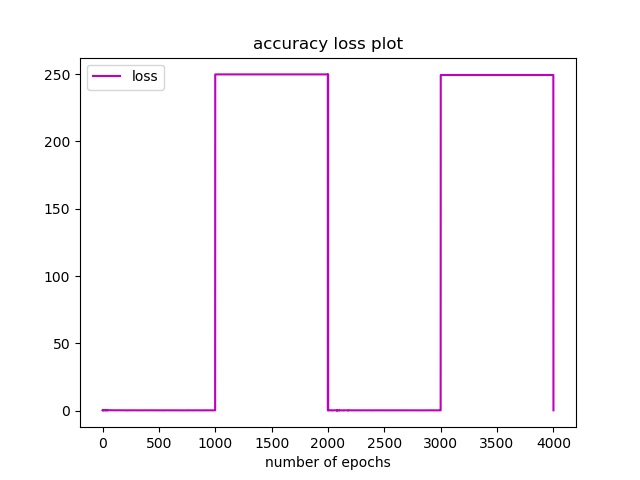
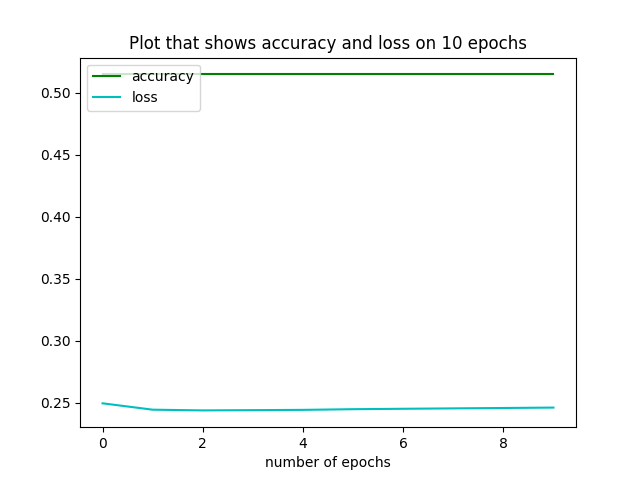
cleaned and tested for add to report

diff --git a/rocket_deepl/sequential.py b/rocket_deepl/sequential.py
@@ -35,7 +35,6 @@ class Sequential(Module):
         #added loss at last layer
         self.modules.append(loss_layer)
 
-
         self.plot_loss = []
         self.plot_accuracy = []
 
@@ -62,10 +61,9 @@ class Sequential(Module):
         Apply forward pass on all layers (excluded loss layer)
         Input:
             input: value
-            target: value (0 or 1) the size is 2xbatch_size
+            target: value (0 or 1) the size is 2 x batch_size
         """
-
-        #batch_size x 2 
+        # batch_size x 2
         self.predicted  = torch.empty(target.size(1))
 
         for i in range(input.size(0)) :
@@ -75,10 +73,10 @@ class Sequential(Module):
 
             x = inp.view(-1,1)
 
-            #dont take the last layer since it behaves differently
+            # do not take the last layer since it behaves differently
             for l in range(len(self.modules)-1) :
                 x = self.modules[l].forward(x)
-        
+
             self.predicted[i] = torch.argmax(x)
             self.loss += self.modules[-1].forward(x,targ)
 
@@ -91,7 +89,7 @@ class Sequential(Module):
         """
         gradientwrtoutput = []
 
-        #reverse for backward propogation
+        # reverse for backward propogation
         self.modules.reverse()
 
         for layer in self.modules:
@@ -99,7 +97,7 @@ class Sequential(Module):
 
         self.loss = 0
 
-        #reset the loss
+        # reset the loss
         self.modules.reverse()
 
 
@@ -115,21 +113,19 @@ class Sequential(Module):
 
 
     def plot_accuracy_loss(self):
-        #TODO: implement
-
-
-
-        plt.plot(self.plot_accuracy, '-m',label="accuracy")
+        """
+        Function to plot the accuracy and loss.
+        """
+        plt.plot(self.plot_accuracy, '-g',label="accuracy")
         plt.plot(self.plot_loss, '-c',label="loss")
 
         plt.xlabel("number of epochs")
-        plt.legend(loc= 'upper left')
-        plt.title("accuracy loss plot")
+        plt.legend(loc ='upper left')
+        plt.title("Plot that shows accuracy and loss on {} epochs".format(len(self.plot_loss)))
 
-        #plt.savefig("accuracy_loss.png")
-
+        # save the file
+        plt.savefig("accuracy_loss.png")
         plt.show()
-        
 
 
     def save_model(self, name):
@@ -155,8 +151,10 @@ class Sequential(Module):
         for l in self.modules:
             if(type(l) is Linear):
                 l.zero_grad()
-    
+
 
     def get_predicted(self):
-
+        """
+        Get the predicted
+        """
         return self.predicted

diff --git a/rocket_deepl/utils.py b/rocket_deepl/utils.py
@@ -15,7 +15,7 @@ def compute_nb_errors(model, data_input, data_target, mini_batch_size):
     nb_data_errors = 0
 
     for b in range(0, data_input.size(0), mini_batch_size):
-        
+
         #retrieve input and target in batches
         input = data_input.narrow(0, b, mini_batch_size)
         target = data_target.narrow(0, b, mini_batch_size)
@@ -35,11 +35,10 @@ def compute_nb_errors(model, data_input, data_target, mini_batch_size):
 
         #count the number of values that are different than zero
         #that would represent the number of missprediction
-
         diff = len(diff[diff!=0])
 
         nb_data_errors+= diff
-        
+
     return nb_data_errors
 
 def train_model(model, train_input, train_target, epochs=25, mini_batch_size = 1):
@@ -51,9 +50,6 @@ def train_model(model, train_input, train_target, epochs=25, mini_batch_size = 1
         epochs: #iterations
         mini_batch_size: size of batch
     """
-
-
-
     for e in range(0, epochs):
 
         model.zero_grad()
@@ -69,7 +65,7 @@ def train_model(model, train_input, train_target, epochs=25, mini_batch_size = 1
             model.step()
 
         accuracy = (1 - (compute_nb_errors(model, train_input, train_target, mini_batch_size))/train_input.size(0))
-       
+
         model.plot_accuracy.append(accuracy)
         model.plot_loss.append(loss)
 

diff --git a/test.py b/test.py
@@ -9,29 +9,37 @@ from rocket_deepl.sequential import *
 from rocket_deepl.utils import *
 
 
-train_input, train_target = torch.load('train'), torch.load('target')
+# Decomment to load the dataset
+# train_input, train_target = torch.load('train'), torch.load('target')
+train_input, train_target = generator(1000)
+
+# Generate the dataset with one-hot encoding
 test_input, test_target = generator(1000)
 
+# Model with 2 input units, 2 output units and 3 hidden layers
 model = Sequential([
 Linear(2, 25), ReLU(),
-Linear(25,25), tanH(), 
-Linear(25,25), ReLU(), 
+Linear(25,25), ReLU(),
 Linear(25,25), ReLU(),
 Linear(25, 2), tanH()
 ])
 
-epochs = 200
+epochs = 50
 mini_batch_size = 1
 
+# train
 train_model(model, train_input, train_target, epochs, mini_batch_size)
 
-
+# plot accuracy and loss
 model.plot_accuracy_loss()
 
+# compute miss prediction
 number = compute_nb_errors(model, test_input, test_target, mini_batch_size)
-
-accuracy = (1-number/test_input.size(0))*100
 number_of_misprediction = number
+
+
+# compute accuray
+accuracy = (1 - number/test_input.size(0))*100
 
 print("accuracy after train for {} epochs: {}% \n number of miss-predictions : {}".format(epochs, accuracy, number_of_misprediction))
 

diff --git a/generator_training_test.py b/generator_training_test.py
@@ -15,8 +15,7 @@ def generator(n):
     radius = 1/(2*math.pi) #0.398...
     target = (input - 0.5).pow(2).sum(1).sub(radius).sign().add(1).div(2).long()
 
-    # Enable hot encoding
-
+    # hot encoding
     # target in this case is an id than if target = 0,
     # put 1 in the first column, if target = 1 we put 1 in second column
     target_hot = torch.empty(target.shape[0], 2)
@@ -24,7 +23,7 @@ def generator(n):
 
     target_hot[:,0] = target == 0
     target_hot[:,1] = target == 1
-    
+
     return input, target_hot
 
 

diff --git a/rocket_deepl/core/layers.py b/rocket_deepl/core/layers.py
@@ -85,7 +85,7 @@ class Linear(Module):
         based on the normal distribution with 0 mean 1e-3 std
         """
 
-        #initialize based on 0 mean and 1e-3 standard deviation
+        # initialize based on 0 mean and 1e-3 standard deviation
         self.w.uniform_(-self.stdv, self.stdv)
         self.b.uniform_(-self.stdv, self.stdv)
 
